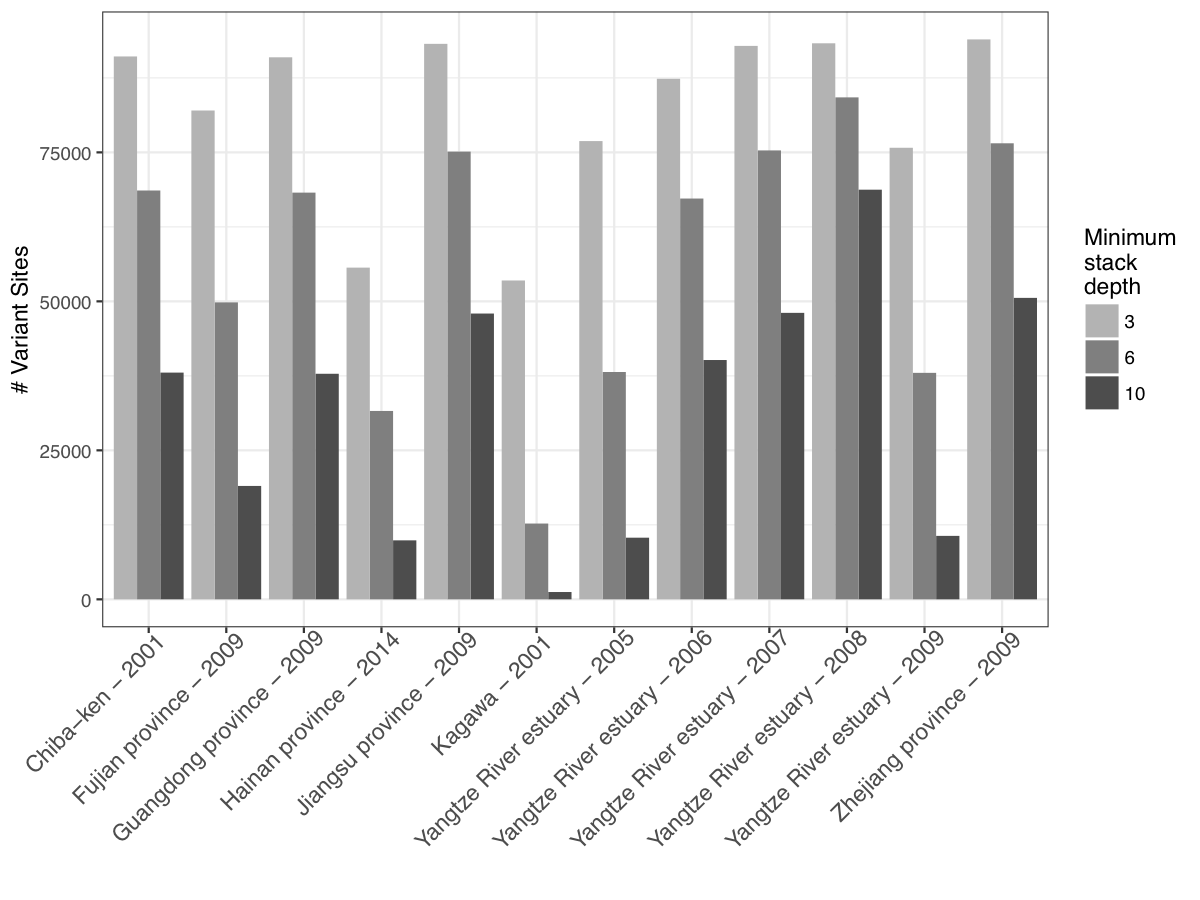
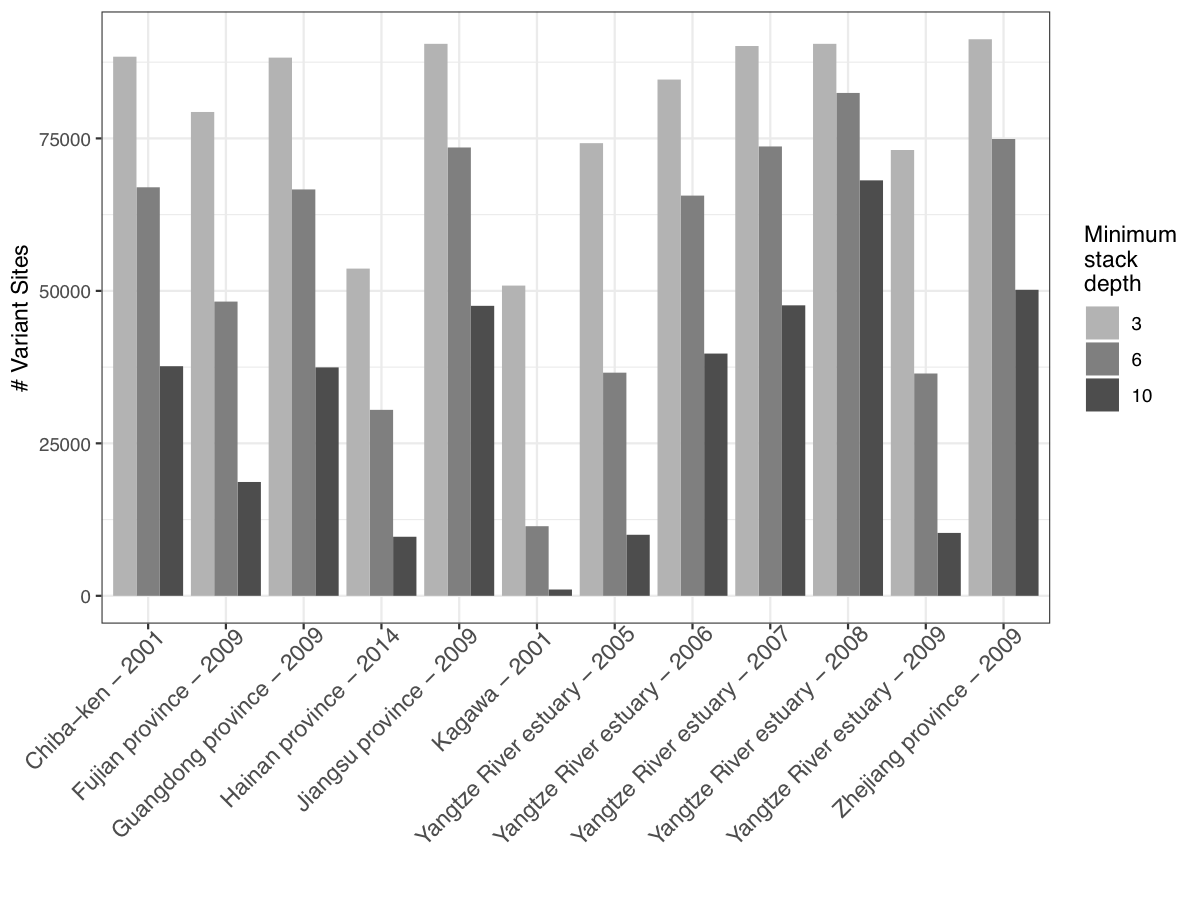
update README and pngs

diff --git a/README.md b/README.md
@@ -685,6 +685,7 @@ Rerun populations:
 	-b 1 \
 	-O data/STACKS_processed/4_depth_optimization/m3/rxstacks_corrected/coverage_filtered/ \
 	-M data/sample_info/population_file_for_stacks_no_JJ-107.txt \
+	-W data/STACKS_processed/4_depth_optimization/m3/rxstacks_corrected/whitelist_loci_after_coverage_filtering.txt \
 	-t 4 \
 	-s \
 	-p 1 \
@@ -704,6 +705,7 @@ Rerun populations:
 	-b 3 \
 	-O data/STACKS_processed/4_depth_optimization/m6/rxstacks_corrected/coverage_filtered/ \
 	-M data/sample_info/population_file_for_stacks_no_JJ-107.txt \
+	-W data/STACKS_processed/4_depth_optimization/m6/rxstacks_corrected/whitelist_loci_after_coverage_filtering.txt \
 	-t 4 \
 	-s \
 	-p 1 \
@@ -723,6 +725,7 @@ Rerun populations:
 	-b 4 \
 	-O data/STACKS_processed/4_depth_optimization/m10/rxstacks_corrected/coverage_filtered/ \
 	-M data/sample_info/population_file_for_stacks_no_JJ-107.txt \
+	-W data/STACKS_processed/4_depth_optimization/m10/rxstacks_corrected/whitelist_loci_after_coverage_filtering.txt \
 	-t 4 \
 	-s \
 	-p 1 \
@@ -749,7 +752,14 @@ Stacks requires each batch of processing to have a batch number.
 m3 was batch\_1, m6 was batch\_3, and m10 was batch\_4. 
 In each of those folders, SNP called across all individuals are saved in multiple different formats. 
 In particular, the `batch_*.vcf` and `batch_*.plink.raw` files will be useful for further analyses. 
-SNPs saved in these files are i) bi-allelic, ii) in 60% of individuals in at least one population, iii) filtered for coverage too deep (indicating a duplication/mapping issue), and iv) filtered so that only one SNP per stack remains (to limit LD, first SNP position retained). 
+SNPs saved in these files are:
+
+* i) bi-allelic
+* ii) in 60% of individuals in at least one population
+* iii) filtered for coverage too deep (indicating a duplication/mapping issue)
+* iv) filtered so that only one SNP per stack remains (to limit LD, first SNP position retained). 
+
+
 Additionally, output files from `populations` live in this folder as well, including Fst calculations between all pairs of populations.  
 
 # Run analyses on final data set
@@ -799,11 +809,11 @@ scripts/plot_Fst_over_time_and_space.R \
 	--outpath=results/3_optimizing_depth/ 
 ```
 
-There is a relationship between genetic distance (Fst/(1 - Fst)) and geographic distance (lm p = 0.0397), but it is opposite of what we would expect to see: 
+There is a trend between genetic distance (Fst/(1 - Fst)) and geographic distance (lm p = 0.05907), but it is opposite of what we would expect to see: 
 
 ![geographic vs genetic distance](results/3_optimizing_depth/m3_plot_geographic_distance_by_genetic_distance_no_out_group.png)
 
-There is not a relationship between genetic distance and temporal distance (lm p = 0.2519):
+There is not a relationship between genetic distance and temporal distance (lm p = 0.2369):
 
 ![temporal vs. genetic distance](results/3_optimizing_depth/m3_plot_time_distance_by_genetic_distance_yangzte.png)
 
@@ -854,7 +864,7 @@ scripts/analyze_bowtie_logs.R \
 	--outpath=results/1_general_info/
 ```
 
-The final row of Table 2 comes from counting the lines in the catalog files generated by Stacks:
+The final row of Table 2 comes from counting the lines in the catalog files generated by Stacks and the lines of the final VCF file (-11):
 
 ```
 wc -l data/STACKS_processed/4_depth_optimization/m3/batch_1.catalog.tags.tsv
@@ -862,6 +872,10 @@ wc -l data/STACKS_processed/4_depth_optimization/m3/batch_1.catalog.tags.tsv
 
 wc -l data/STACKS_processed/4_depth_optimization/m3/rxstacks_corrected/batch_1.catalog.tags.tsv
 # 213,610
+
+wc -l data/STACKS_processed/4_depth_optimization/m3/rxstacks_corrected/coverage_filtered/batch_1.vcf
+# 106663 - 11 = 106,652
+ 
 ```
 
 ## Create phylogenetic trees from population level Fst
@@ -937,11 +951,13 @@ scripts/Fst_analyses_for_eelseq.R \
 Using the stack depth=3 data (m3), we can see that the outgroup clusters separately and that there is very little divergence between any of the eel species.
 In addition, samples don't necessarily cluster by population/sampling date. 
 
-![rooted tree, created using UPGMA (m3 depth)](results/4_Fst/m3/plot_Fst_rooted_tree_all_pops_121318ERD.png) "rooted tree, created using UPGMA (m3 depth")
+![rooted tree, created using UPGMA (m3 depth)](results/4_Fst/m3/plot_Fst_rooted_tree_all_pops_122018ERD.png) 
+"rooted tree, created using UPGMA (m3 depth)"
 
 Above, rooted tree created using UPGMA (m3 depth).
 
-![unrooted tree, created using neighbor-joining (m3 depth)](results/4_Fst/m3/plot_Fst_unrooted_tree_all_pops_121318ERD.png) "unrooted tree, created using neighbor-joining (m3 depth")
+![unrooted tree, created using neighbor-joining (m3 depth)](results/4_Fst/m3/plot_Fst_unrooted_tree_all_pops_122018ERD.png) 
+"unrooted tree, created using neighbor-joining (m3 depth)"
 
 Above, unrooted tree created using neighbor-joining (m3 depth).
 
@@ -950,10 +966,10 @@ To do this, for all SNPs that a pair shared in common, the number of differences
 This created a distance matrix that was then used to build the trees below. 
 At the individual level, no apparent clustering by either population or year of sampling.  
 
-![unrooted tree, individual genetic distances created using neighbor-joining (m3 depth)](results/4_Fst/m3/plot_individual_genetic_distance_rooted_tree_121318ERD.png) "unrooted tree, created using neighbor-joining (m3 depth")
+![unrooted tree, individual genetic distances created using neighbor-joining (m3 depth)](results/4_Fst/m3/plot_individual_genetic_distance_rooted_tree_122018ERD.png) "unrooted tree, created using neighbor-joining (m3 depth")
 Above, rooted tree of individual genetic distances (m3 depth)
 
-![rooted tree, individual genetic distances created using neighbor-joining (m3 depth)](results/4_Fst/m3/plot_individual_genetic_distance_unrooted_tree_121318ERD.png) "unrooted tree, created using neighbor-joining (m3 depth")
+![rooted tree, individual genetic distances created using neighbor-joining (m3 depth)](results/4_Fst/m3/plot_individual_genetic_distance_unrooted_tree_122018ERD.png) "unrooted tree, created using neighbor-joining (m3 depth")
 
 Above, unrooted tree of individual genetic distances (m3 depth)
 
@@ -1297,9 +1313,9 @@ scripts/plot_PCA.R \
 
 ```
 
-![m3 PCA all samples](results/6_PCA/m3/PCA.all.samples.121418ERD.png)
+![m3 PCA all samples](results/6_PCA/m3/PCA.all.samples.122018ERD.png)
 
-![m3 PCA no outgroup](results/6_PCA/m3/PCA.no.outgroup.121418ERD.png)
+![m3 PCA no outgroup](results/6_PCA/m3/PCA.no.outgroup.122018ERD.png)
 
 m6:
 
@@ -1310,9 +1326,9 @@ scripts/plot_PCA.R \
 	--outpath=results/6_PCA/m6/
 ```
 
-![m6 PCA all samples](results/6_PCA/m6/PCA.all.samples.121418ERD.png)
+![m6 PCA all samples](results/6_PCA/m6/PCA.all.samples.122018ERD.png)
 
-![m6 PCA no outgroup](results/6_PCA/m6/PCA.no.outgroup.121418ERD.png)
+![m6 PCA no outgroup](results/6_PCA/m6/PCA.no.outgroup.122018ERD.png)
 
 m10:
 
@@ -1323,8 +1339,8 @@ scripts/plot_PCA.R \
 	--outpath=results/6_PCA/m10/
 ```
 
-![m10 PCA all samples](results/6_PCA/m10/PCA.all.samples.121418ERD.png)
+![m10 PCA all samples](results/6_PCA/m10/PCA.all.samples.122018ERD.png)
 
-![m10 PCA no outgroup](results/6_PCA/m10/PCA.no.outgroup.121418ERD.png)
+![m10 PCA no outgroup](results/6_PCA/m10/PCA.no.outgroup.122018ERD.png)
 
 
